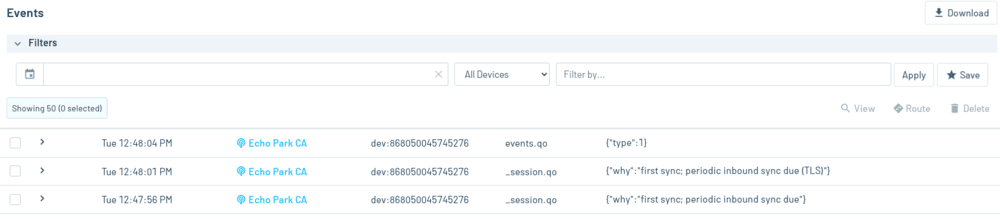
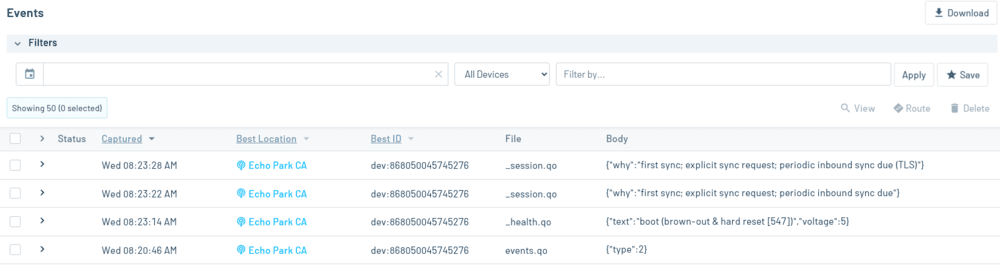
Address review feedback.

diff --git a/46-lightning-detector/README.md b/46-lightning-detector/README.md
@@ -18,9 +18,7 @@ Detect lightning strikes up to 40 km away and send the detections to the cloud v
 ## You Will Need
 
 * [Visual Studio Code (VS Code)](https://code.visualstudio.com/) with the [PlatformIO extension](https://platformio.org/)
-* [Notecarrier F](https://blues.io/products/notecarrier/notecarrier-f/)
-* [Notecard](https://blues.io/products/notecard/)
-* [Swan](https://blues.io/products/swan/)
+* [Blues Starter Kit for North America](https://shop.blues.io/products/blues-starter-kit-for-north-america)[^1]
 * [SparkFun Lightning Detector - AS3935](https://www.sparkfun.com/products/15441)
 * Row of 7 headers
 * Soldering iron
@@ -44,13 +42,13 @@ After detection, the Swan's firmware creates a [Note](https://dev.blues.io/api-r
 
 ```json
 {
-    "type": 2,
+    "type": 3,
     "distance_to_storm": 15,
     "energy": 999
 }
 ```
 
-- `type` is a code to indicate the event type. 0 is noise, 1 is disturber, and 2 is lightning.
+- `type` is a code to indicate the event type. 1 is noise, 2 is disturber, and 3 is lightning.
 - `distance_to_storm` is an additional value reported for lightning events. It's the distance to the head of the storm in kilometers.
 - `energy` is an additional value reported for lightning events. According to the datasheet:
 
@@ -99,27 +97,17 @@ There are several optional [environment variables](https://dev.blues.io/guides-a
 
 Here are the environment variables supported by the firmware:
 
-- `ignore_disturbers`: If this is 0, disturbers trigger the creation of an event Note. If this is 1, disturbers do NOT create an event Note.
+- `ignore_disturbers`: If this is 0, disturbers trigger the creation of an event Note. If this is 1, disturbers do NOT create an event Note. *Default: 0*
+- `indoor`: If this is 0, the detector will configure its settings for outdoor usage. If this is 1, it'll optimize for indoor usage. *Default: 1*
+- `noise_floor_threshold`: The noise floor of the signal is continuously measured by the detector. If it breaches the noise floor threshold, the detector triggers a noise interrupt, and a noise event Note will be created. This environment variable is a value between 1 and 7. These values correspond to different thresholds, which are listed in Figure 41 of the "Noise Floor Level Measurement and Evaluation" section of the [datasheet](https://cdn.sparkfun.com/assets/learn_tutorials/9/2/1/AS3935_Datasheet_EN_v2.pdf). *Default: 2*
+- `spike_rejection`: A value between 1 and 15. From the datasheet:
+  > the spike rejection settings ... can be used to increase the  robustness against false alarms from such disturbers
 
-  *Default: 0*
-- `indoor`: If this is 0, the detector will configure its settings for outdoor usage. If this is 1, it'll optimize for indoor usage.
-
-  *Default: 1*
-- `noise_floor_threshold`: The noise floor of the signal is continuously measured by the detector. If it breaches the noise floor threshold, the detector triggers a noise interrupt, and a noise event Note will be created. This environment variable is a value between 1 and 7. These values correspond to different thresholds, which are listed in Figure 41 of the "Noise Floor Level Measurement and Evaluation" section of the [datasheet](https://cdn.sparkfun.com/assets/learn_tutorials/9/2/1/AS3935_Datasheet_EN_v2.pdf).
-
-  *Default: 2*
--  `spike_rejection`: A value between 1 and 15. From the datasheet:
-   > the spike rejection settings ... can be used to increase the  robustness against false alarms from such disturbers
-
-    See the "Signal Validation" section of the datasheet for more.
-
-    *Default: 2*
+  See the "Signal Validation" section of the datasheet for more. *Default: 2*
 - `watchdog_threshold`: This is a threshold between 1 and 15. From the datasheet:
-    > By increasing the threshold the AS3935 can be made more robust against disturbers. However, this will also make the sensor less sensitive for weaker signals from far away lightning events
+  > By increasing the threshold the AS3935 can be made more robust against disturbers. However, this will also make the sensor less sensitive for weaker signals from far away lightning events
 
-    See the "Analog Front-End (AFE) and Watchdog" section of the datasheet for more.
-
-    *Default: 2*
+  See the "Analog Front-End (AFE) and Watchdog" section of the datasheet for more. *Default: 2*
 
 ## Firmware
 
@@ -147,7 +135,7 @@ With the serial log open, ignite the lighter near the detector. You should see m
 ```
 Interrupt received. Source: disturber.
 Sending event note...
-[INFO] {"req":"note.add","file":"events.qo","body":{"type":1,"distance_to_storm":0,"energy":0},"crc":"0004:6C5B2D87"}
+[INFO] {"req":"note.add","file":"events.qo","body":{"type":2,"distance_to_storm":0,"energy":0},"crc":"0004:6C5B2D87"}
 [INFO] {"template":true}
 ```
 
@@ -158,11 +146,11 @@ Interrupt received. Source: lightning.
 Distance from head of storm: 40 km.
 Energy value: 0.
 Sending event note...
-[INFO] {"req":"note.add","file":"events.qo","body":{"type":2,"distance_to_storm":40,"energy":0},"crc":"0003:9CBD5B78"}
+[INFO] {"req":"note.add","file":"events.qo","body":{"type":3,"distance_to_storm":40,"energy":0},"crc":"0003:9CBD5B78"}
 [INFO] {"template":true}
 ```
 
-On Notehub, in your project's Events tab, you should see the Note come through sometime later.[^1]
+On Notehub, in your project's Events tab, you should see the Note come through sometime later.[^2]
 
 <p align="center">
 <img src="images/events.png"/>
@@ -172,14 +160,16 @@ Double-click the Note and open the Body tab to view the JSON:
 
 ```json
 {
-    "type": 1
+    "type": 2
 }
 ```
 
-Because this was a disturber (type 1), no `distance_to_storm` or `energy` fields are present.
-
-[^1]: Notes are synced from the Notecard to Notehub every 10 minutes. See the `OUTBOUND_MINS` macro in lightning_detector.ino if you want to change the number of minutes.
+Because this was a disturber (type 2), no `distance_to_storm` or `energy` fields are present.
 
 ## Blues Community
 
 We’d love to hear about you and your project on the [Blues Community Forum](https://discuss.blues.io/)!
+
+
+[^1]: [Blues Starter Kits for EMEA](https://shop.blues.io/products/blues-starter-kit-for-emea) are also available.
+[^2]: Notes are synced from the Notecard to Notehub every 10 minutes. See the `OUTBOUND_MINS` macro in lightning_detector.ino if you want to change the number of minutes.
